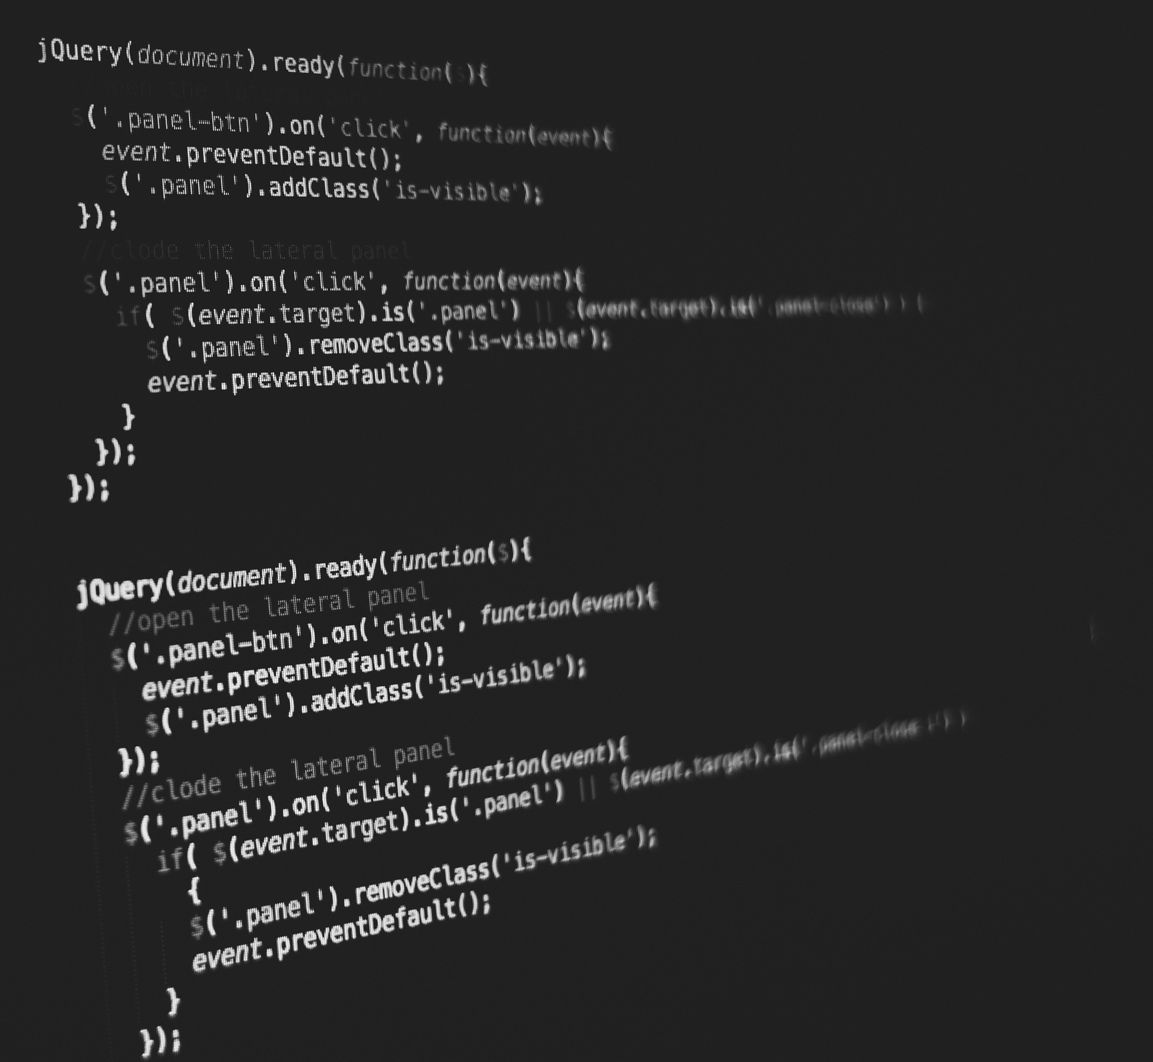
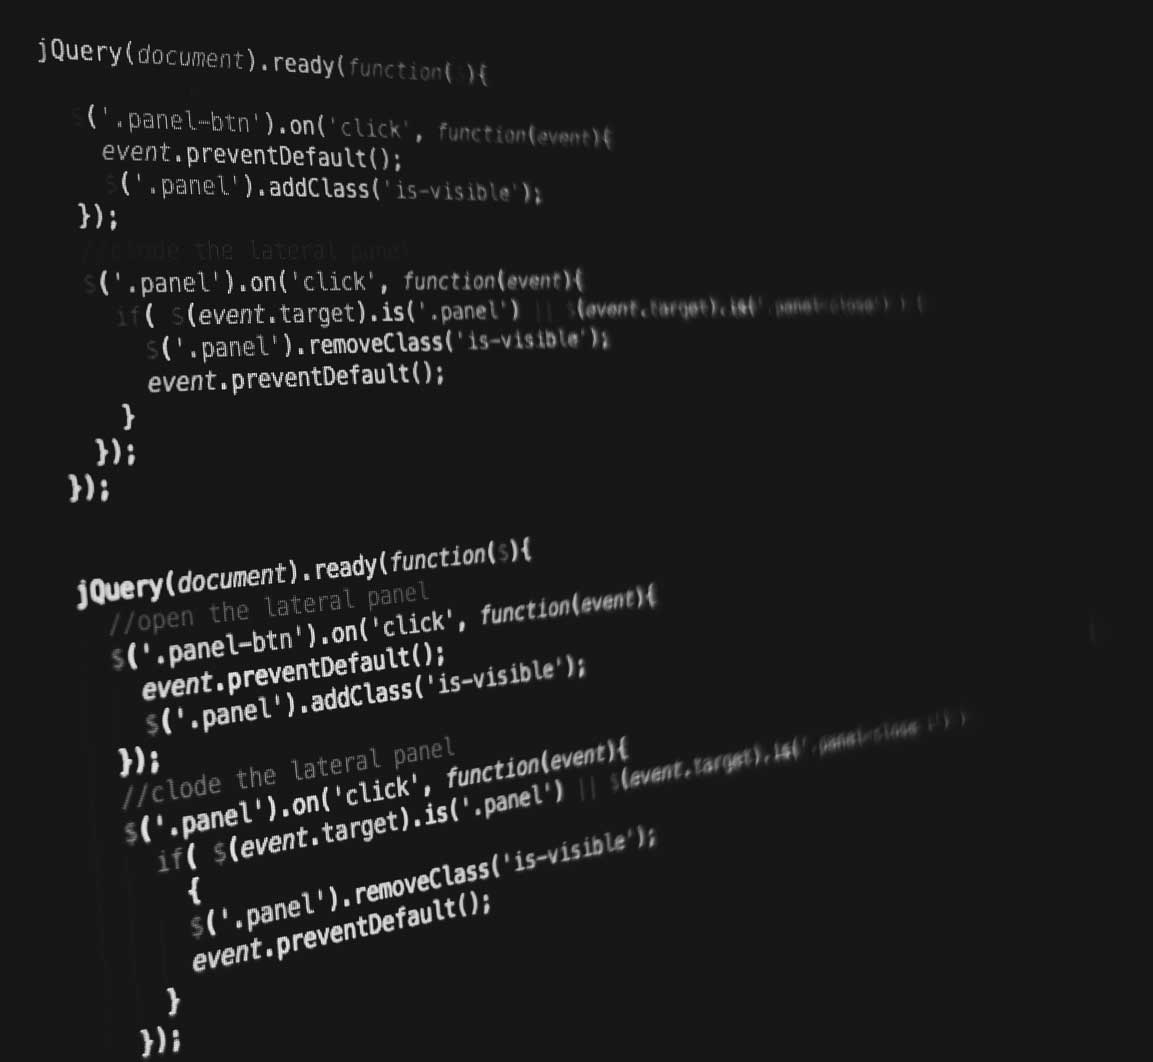
images

diff --git a/scss/style.css b/scss/style.css
@@ -867,7 +867,7 @@ Single Slide Style + Mobile Images
 
 /* line 815, /Users/paulopamplona/Desktop/00_websites/pepe_ROOT/scss/style.scss */
 .hero-slider li:nth-of-type(2) {
-  background-color: #202020;
+  background-color: #161616;
   background-image: url("../assets/m_jquery.jpg"); }
 
 /* line 822, /Users/paulopamplona/Desktop/00_websites/pepe_ROOT/scss/style.scss */

diff --git a/css/style.css b/css/style.css
@@ -748,7 +748,7 @@ Single Slide Style + Mobile Images
   background-color: #2C343B;
   background-image: url("../assets/m_portfolio.jpg"); }
 .hero-slider li:nth-of-type(2) {
-  background-color: #202020;
+  background-color: #161616;
   background-image: url("../assets/m_jquery.jpg"); }
 .hero-slider li:nth-of-type(3) {
   background-color: #d4cfcb;

diff --git a/scss/style.scss b/scss/style.scss
@@ -813,7 +813,7 @@ Single Slide Style + Mobile Images
 	}
 
 	li:nth-of-type(2) {
-	 	background-color: #202020;
+	 	background-color: #161616;
 //        color before my changes: lighten($color-1, 8%);
 	 	background-image: url('../assets/m_jquery.jpg');
         //800px x 533px displayed only at mobile
